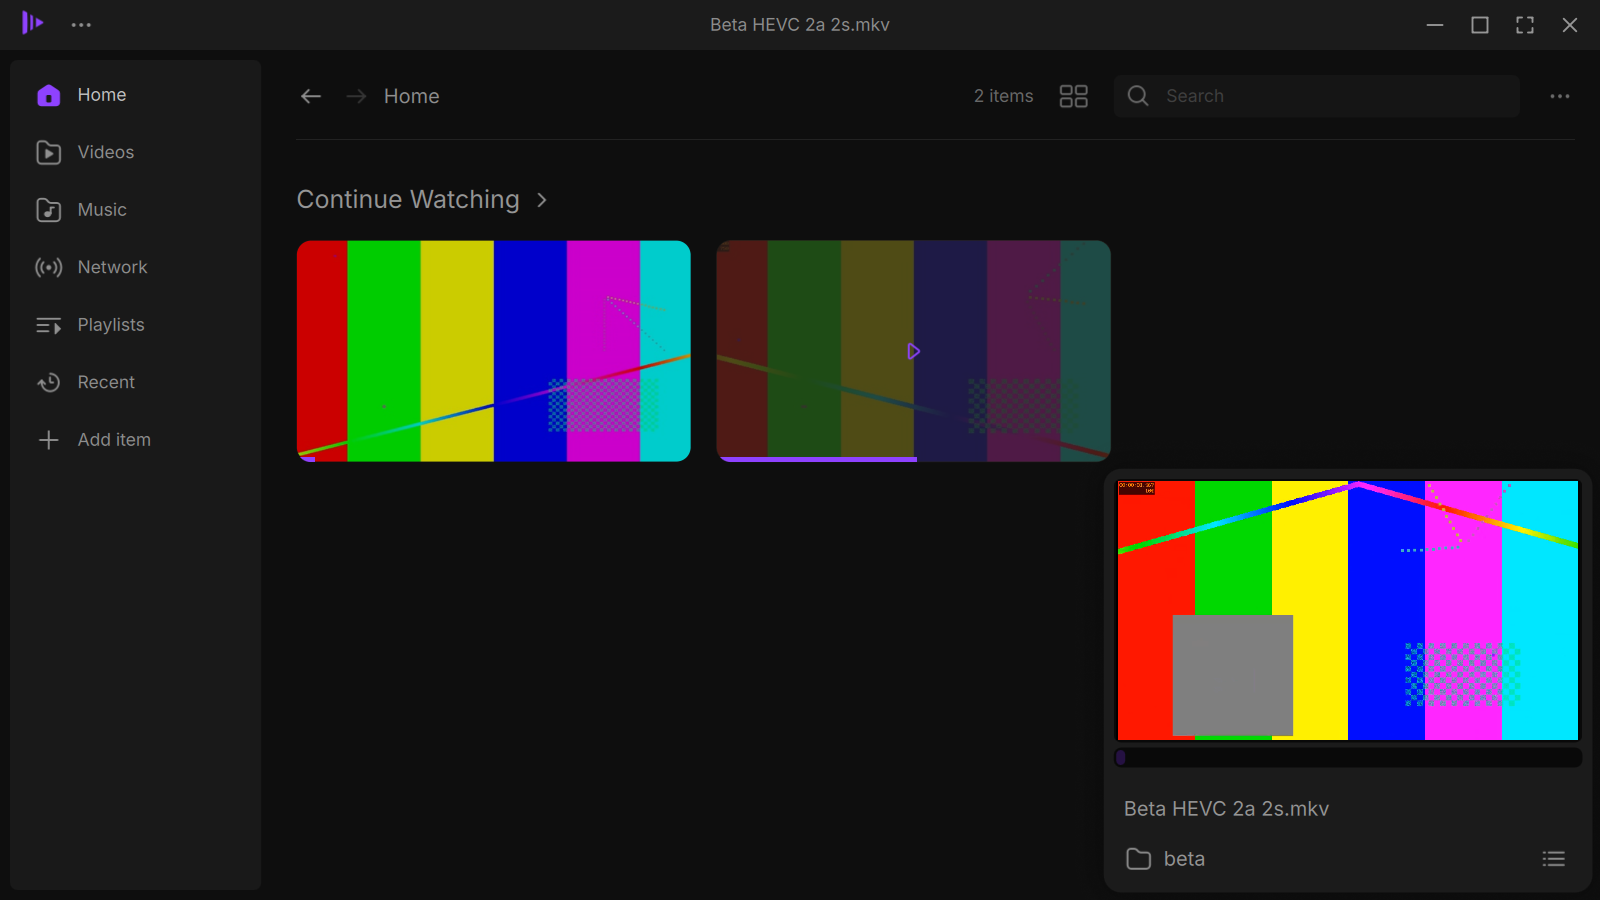
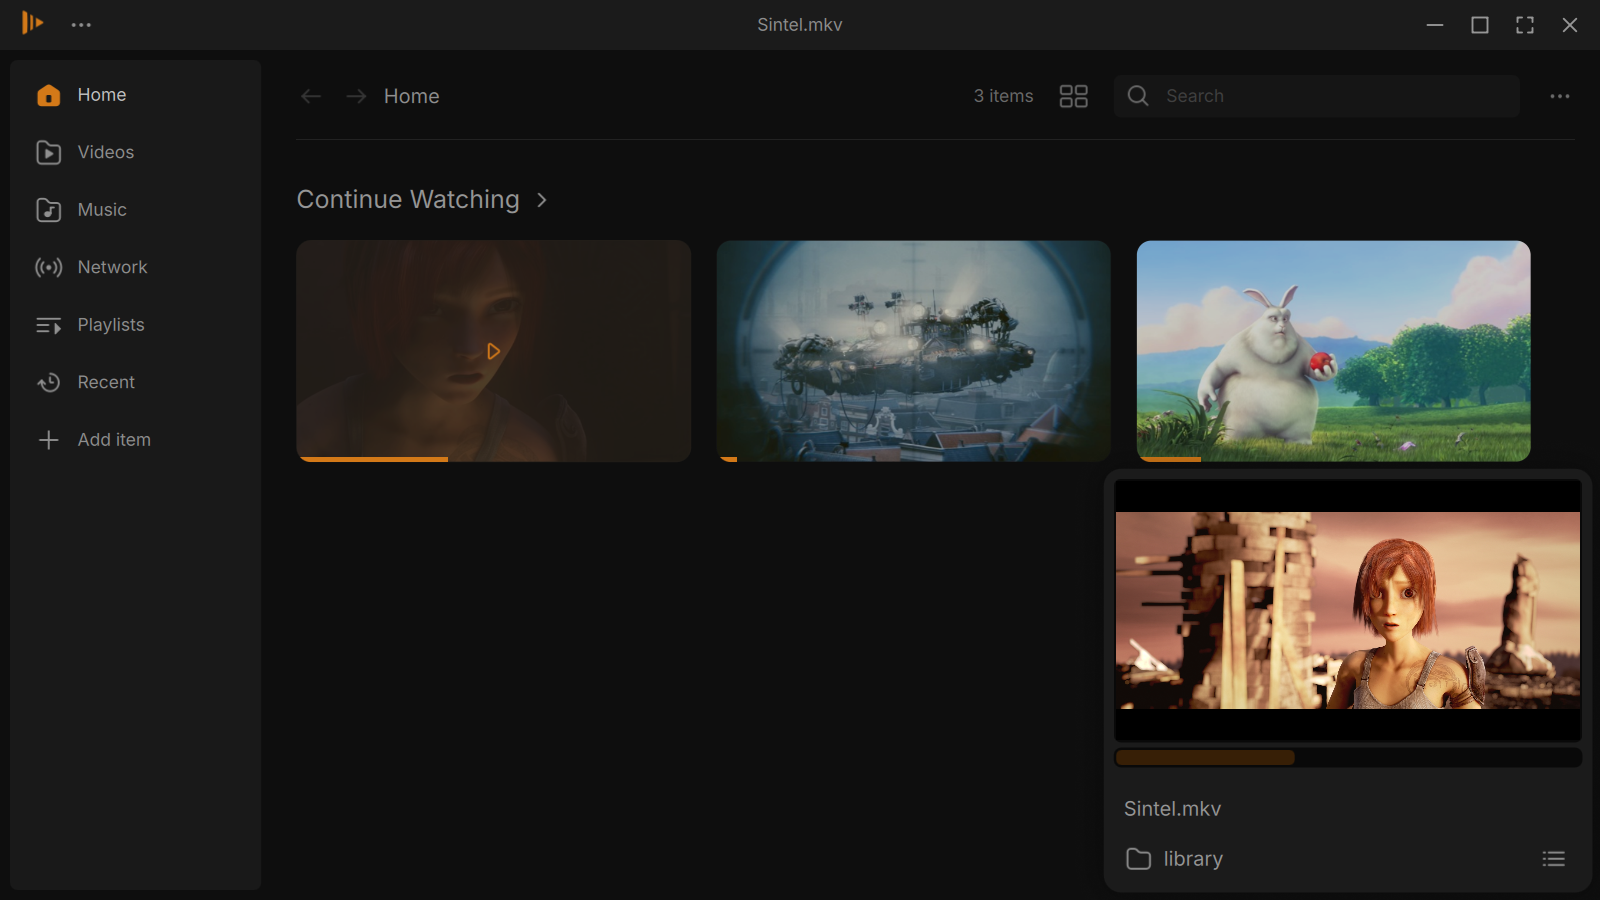
README: homepage shots with the Blender open movies, accent colors section, film credits [skip ci]
hero.png and the four screenshots retaken on the Cone Player 1.0.0 build in dark
theme with the default orange accent, using Sintel, Big Buck Bunny and Tears of
Steel (Blender Foundation, CC BY 3.0, from download.blender.org) in a library
of only those films. New cone-accents.png (redesign/brand/make_accents_image.py):
the nine accent colors as a layered stack. Social preview rerun with the hero.
Credits name each film with its Blender Foundation attribution and license.

diff --git a/redesign/brand/make_accents_image.py b/redesign/brand/make_accents_image.py
@@ -1,0 +1,43 @@
+#!/usr/bin/env python3
+# The README's accent colors image: the same player view taken once per accent color
+# (Settings > General > Accent color), layered like a fanned stack of cards. The default orange
+# is in front; each card behind it sits a step lower and further left, so its left edge (the
+# logo) and its control bar (play button, seek bar) show in its own accent. Run from the
+# repository root:
+#   python3 redesign/brand/make_accents_image.py <folder with accent-<RRGGBB>.png shots>
+# Writes docs/images/cone-accents.png. Needs Pillow.
+import os
+import sys
+
+from PIL import Image, ImageDraw
+
+# Settings' order (Decision 15); the first is the default orange and goes in front
+ACCENTS = ["D37918", "E15032", "C49E23", "19A234", "18AAD3", "185DD3", "8E42FF", "F052B3", "AFAFAF"]
+CARD_W = 1240               # width of one card (the shots are 16:9)
+STEP_X, STEP_Y = 45, 32     # each card behind the front one: this much further left and lower
+BG = (17, 17, 17)           # Dark BG
+EDGE = (60, 60, 60)         # thin outline that separates two cards
+RADIUS = 12
+OUT = "docs/images/cone-accents.png"
+
+folder = sys.argv[1] if len(sys.argv) > 1 else "."
+shots = [Image.open(os.path.join(folder, "accent-%s.png" % a)).convert("RGB") for a in ACCENTS]
+card_h = round(shots[0].height * CARD_W / shots[0].width)
+n = len(shots)
+W = CARD_W + STEP_X * (n - 1)
+H = card_h + STEP_Y * (n - 1)
+canvas = Image.new("RGB", (W, H), BG)
+
+mask = Image.new("L", (CARD_W, card_h), 0)
+ImageDraw.Draw(mask).rounded_rectangle((0, 0, CARD_W - 1, card_h - 1), RADIUS, fill=255)
+
+# back to front: the last accent is drawn first, bottom left; the default orange last, top right
+for i in reversed(range(n)):
+    card = shots[i].resize((CARD_W, card_h), Image.LANCZOS)
+    x = STEP_X * (n - 1 - i)
+    y = STEP_Y * i
+    canvas.paste(card, (x, y), mask)
+    ImageDraw.Draw(canvas).rounded_rectangle((x, y, x + CARD_W - 1, y + card_h - 1), RADIUS, outline=EDGE, width=2)
+
+canvas.save(OUT, optimize=True)
+print(OUT, canvas.size)

diff --git a/README.md b/README.md
@@ -14,9 +14,11 @@
   <img src="https://img.shields.io/badge/status-active-2ea44f" alt="Status: active">
 </p>
 
+<p align="center"><img src="docs/images/hero.png" alt="Cone Player playing Sintel"></p>
+
 | | |
 |---|---|
-| <img src="docs/images/cone-player.png" alt="The player"><br>**Player.** Thin floating bars that get out of the way. | <img src="docs/images/cone-settings-sidebar.png" alt="The settings sidebar"><br>**Settings sidebar.** Video, audio, subtitles and playback, next to the picture. |
+| <img src="docs/images/cone-player.png" alt="The player with subtitles"><br>**Player.** Thin floating bars that get out of the way, and subtitles that stay readable. | <img src="docs/images/cone-settings-sidebar.png" alt="The settings sidebar"><br>**Settings sidebar.** Video, audio, subtitles and playback, next to the picture. |
 | <img src="docs/images/cone-library.png" alt="The library and mini player"><br>**Library.** Home, videos, music and playlists, with a mini player. | <img src="docs/images/cone-settings.png" alt="Settings"><br>**Settings.** Plain categories instead of VLC's preference tree. |
 
 ## Why Cone Player
@@ -25,6 +27,12 @@
 - **Her whole design, checked.** Every screen and control is built from Juxtopposed's Figma file and video, and compared with them side by side on Windows.
 - **Fixes bugs in VLC 4 itself**, such as the time jumping ahead after a pause at a changed speed, a start-up freeze with some MKV files and a crash when picking the Spectrometer visualizer.
 - **Installs next to your VLC** instead of replacing it: its own settings, its own file associations, and your VLC stays as it is.
+
+## Themes and accent colors
+
+Dark and light themes and nine accent colors: the default orange and eight more. Pick them in the first start or in Settings > General; the whole player changes at once.
+
+<p align="center"><img src="docs/images/cone-accents.png" alt="Cone Player in its nine accent colors"></p>
 
 ## Download
 
@@ -153,6 +161,10 @@ Found a bug? Open an [issue](https://github.com/StickyGonzales/vlc-redesign-juxt
 - **Design:** ["VLC Redesign" by Juxtopposed](https://www.figma.com/community/file/1691465999134370980/vlc-redesign) ([video](https://youtu.be/ERFeOgqk324)), [CC BY 4.0](https://creativecommons.org/licenses/by/4.0/). Changes were made to fit it to VLC.
 - **Based on [VLC media player](https://www.videolan.org/vlc/)** by VideoLAN and its contributors. Cone Player is GPLv2 or later like VLC (libVLC LGPLv2.1 or later), and all its source is here.
 - **Fonts:** Inter and DM Mono, SIL Open Font License.
+- **Films in the screenshots** (Blender Foundation open movies, [CC BY 3.0](https://creativecommons.org/licenses/by/3.0/)):
+  - *Sintel*, © copyright Blender Foundation | [durian.blender.org](https://durian.blender.org/)
+  - *Big Buck Bunny*, © copyright 2008, Blender Foundation | [www.bigbuckbunny.org](https://peach.blender.org/)
+  - *Tears of Steel*, (CC) Blender Foundation | [mango.blender.org](https://mango.blender.org/)
 - **Built by [StickyGonzales](https://github.com/StickyGonzales)** with [Claude](https://claude.ai/code).
 
 Cone Player is an independent project, not affiliated with or endorsed by VideoLAN or Juxtopposed. VLC, VLC media player and VideoLAN are trademarks of the VideoLAN non-profit. Details in [CREDITS.md](CREDITS.md).

diff --git a/redesign/RELEASE_1.0_CHECKLIST.md b/redesign/RELEASE_1.0_CHECKLIST.md
@@ -35,7 +35,7 @@ Now: 298 verified, 61 context, 1 postponed, 1 dropped. Every buildable row is ve
 | 6 | Merge `wip/next-test` into `redesign` | PC session | done | 2026-10-26: 64cdc21d81 (with #56, #54). |
 | 7 | Release workflow (PR #8, `wip/ci-release`): merge into `redesign` | PC session | done | 2026-10-26: d5a466e7f3 (conflict in build-windows.yml resolved, the release run passed). |
 | 8 | Homepage screenshots: retake `docs/images/cone-player.png`, `cone-settings-sidebar.png`, `cone-library.png`, `cone-settings.png` on the 1.0 build | PC session | done | Retaken 2026-10-26 on `wip/next-test` build 40321389086 (gate dark screens, accent #8E42FF, 1600 x 900): 40ab5aa1bc. |
-| 8a | Homepage images: the README has no hero for now (her Figma frame showed VLC's cone and name, removed 2026-10-26). The Blender renders replace `docs/images/cone-player.png`, `cone-settings-sidebar.png`, `cone-library.png` and `cone-settings.png` under the same names; a hero can come back as `docs/images/hero.png` (one centered image under the badges in README.md). Then rerun `python3 redesign/brand/make_social_preview.py` | PC session | not done | README: `wip/readme-1.0`, 2026-10-26; images must not show VLC's name or cone, and need no transparent or shadowed edges |
+| 8a | Homepage images: the README has no hero for now (her Figma frame showed VLC's cone and name, removed 2026-10-26). The Blender renders replace `docs/images/cone-player.png`, `cone-settings-sidebar.png`, `cone-library.png` and `cone-settings.png` under the same names; a hero can come back as `docs/images/hero.png` (one centered image under the badges in README.md). Then rerun `python3 redesign/brand/make_social_preview.py` | PC session | done | 2026-10-26 (PC session, StickyGonzales's list): Blender open movies Sintel, Big Buck Bunny and Tears of Steel (1080p from download.blender.org, CC BY 3.0 checked on durian / peach / mango.blender.org; Sintel MD5 checked) in a library of only those films, dark theme, default orange accent, Cone Player 1.0.0 zip: hero.png (Sintel 5:40), cone-player.png (Tears of Steel with its official English subtitles), cone-settings-sidebar.png (Big Buck Bunny), cone-library.png (Home with Continue Watching and the mini player), cone-settings.png; new cone-accents.png (the nine accents, redesign/brand/make_accents_image.py) in a "Themes and accent colors" section; social preview rerun with hero.png; film credits in the README. Spring and Charge left out: no public download from an official source (Blender Studio needs an account). |
 | 8b | GitHub settings: upload `redesign/brand/social-preview.png` (Settings > General > Social preview) and paste the About box text (description, website, topics) from the README pull request | StickyGonzales | not done | Repository settings need the owner |
 | 9 | README and release notes (PR #54, `wip/readme-1.0`): final pass and merge | PC session | done | Merged 2026-10-26 (ba0f3aa4da); known issues updated (closing-time double-click, #57 left out); the zip line corrected (settings go to %APPDATA%\Cone). |
 | 10 | Go for the public release | StickyGonzales | done | Go 2026-10-26 14:30. |
